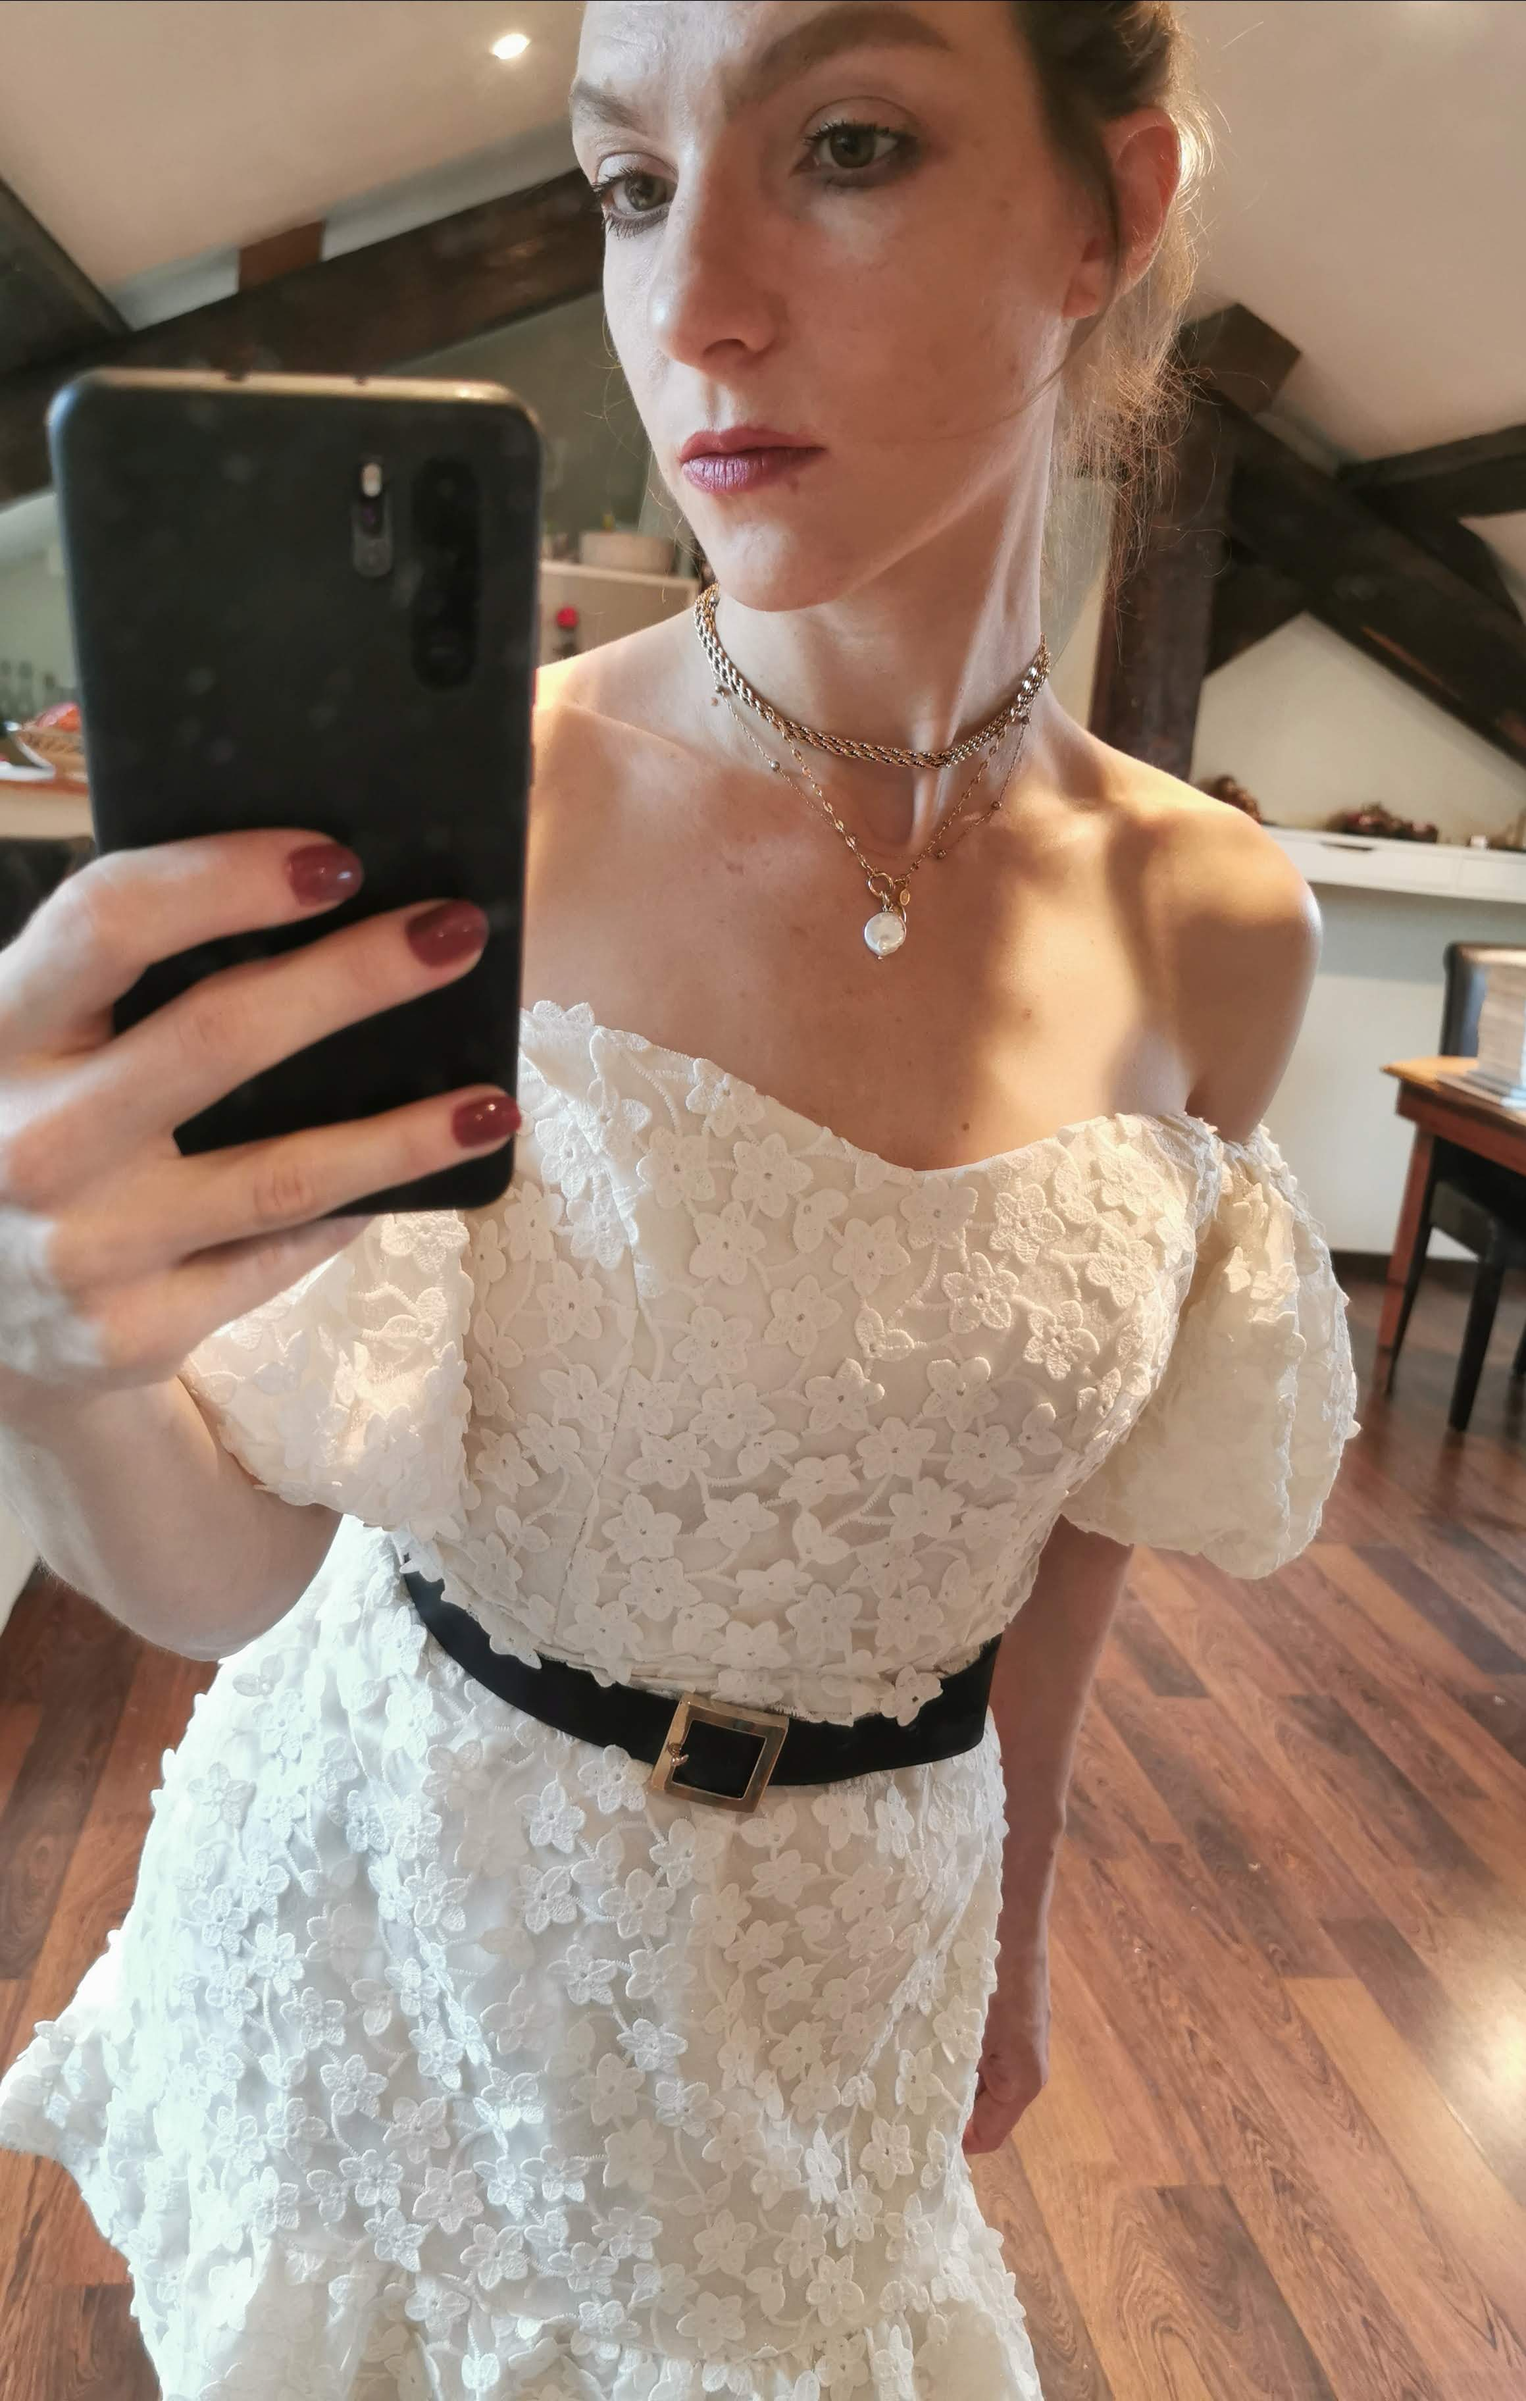
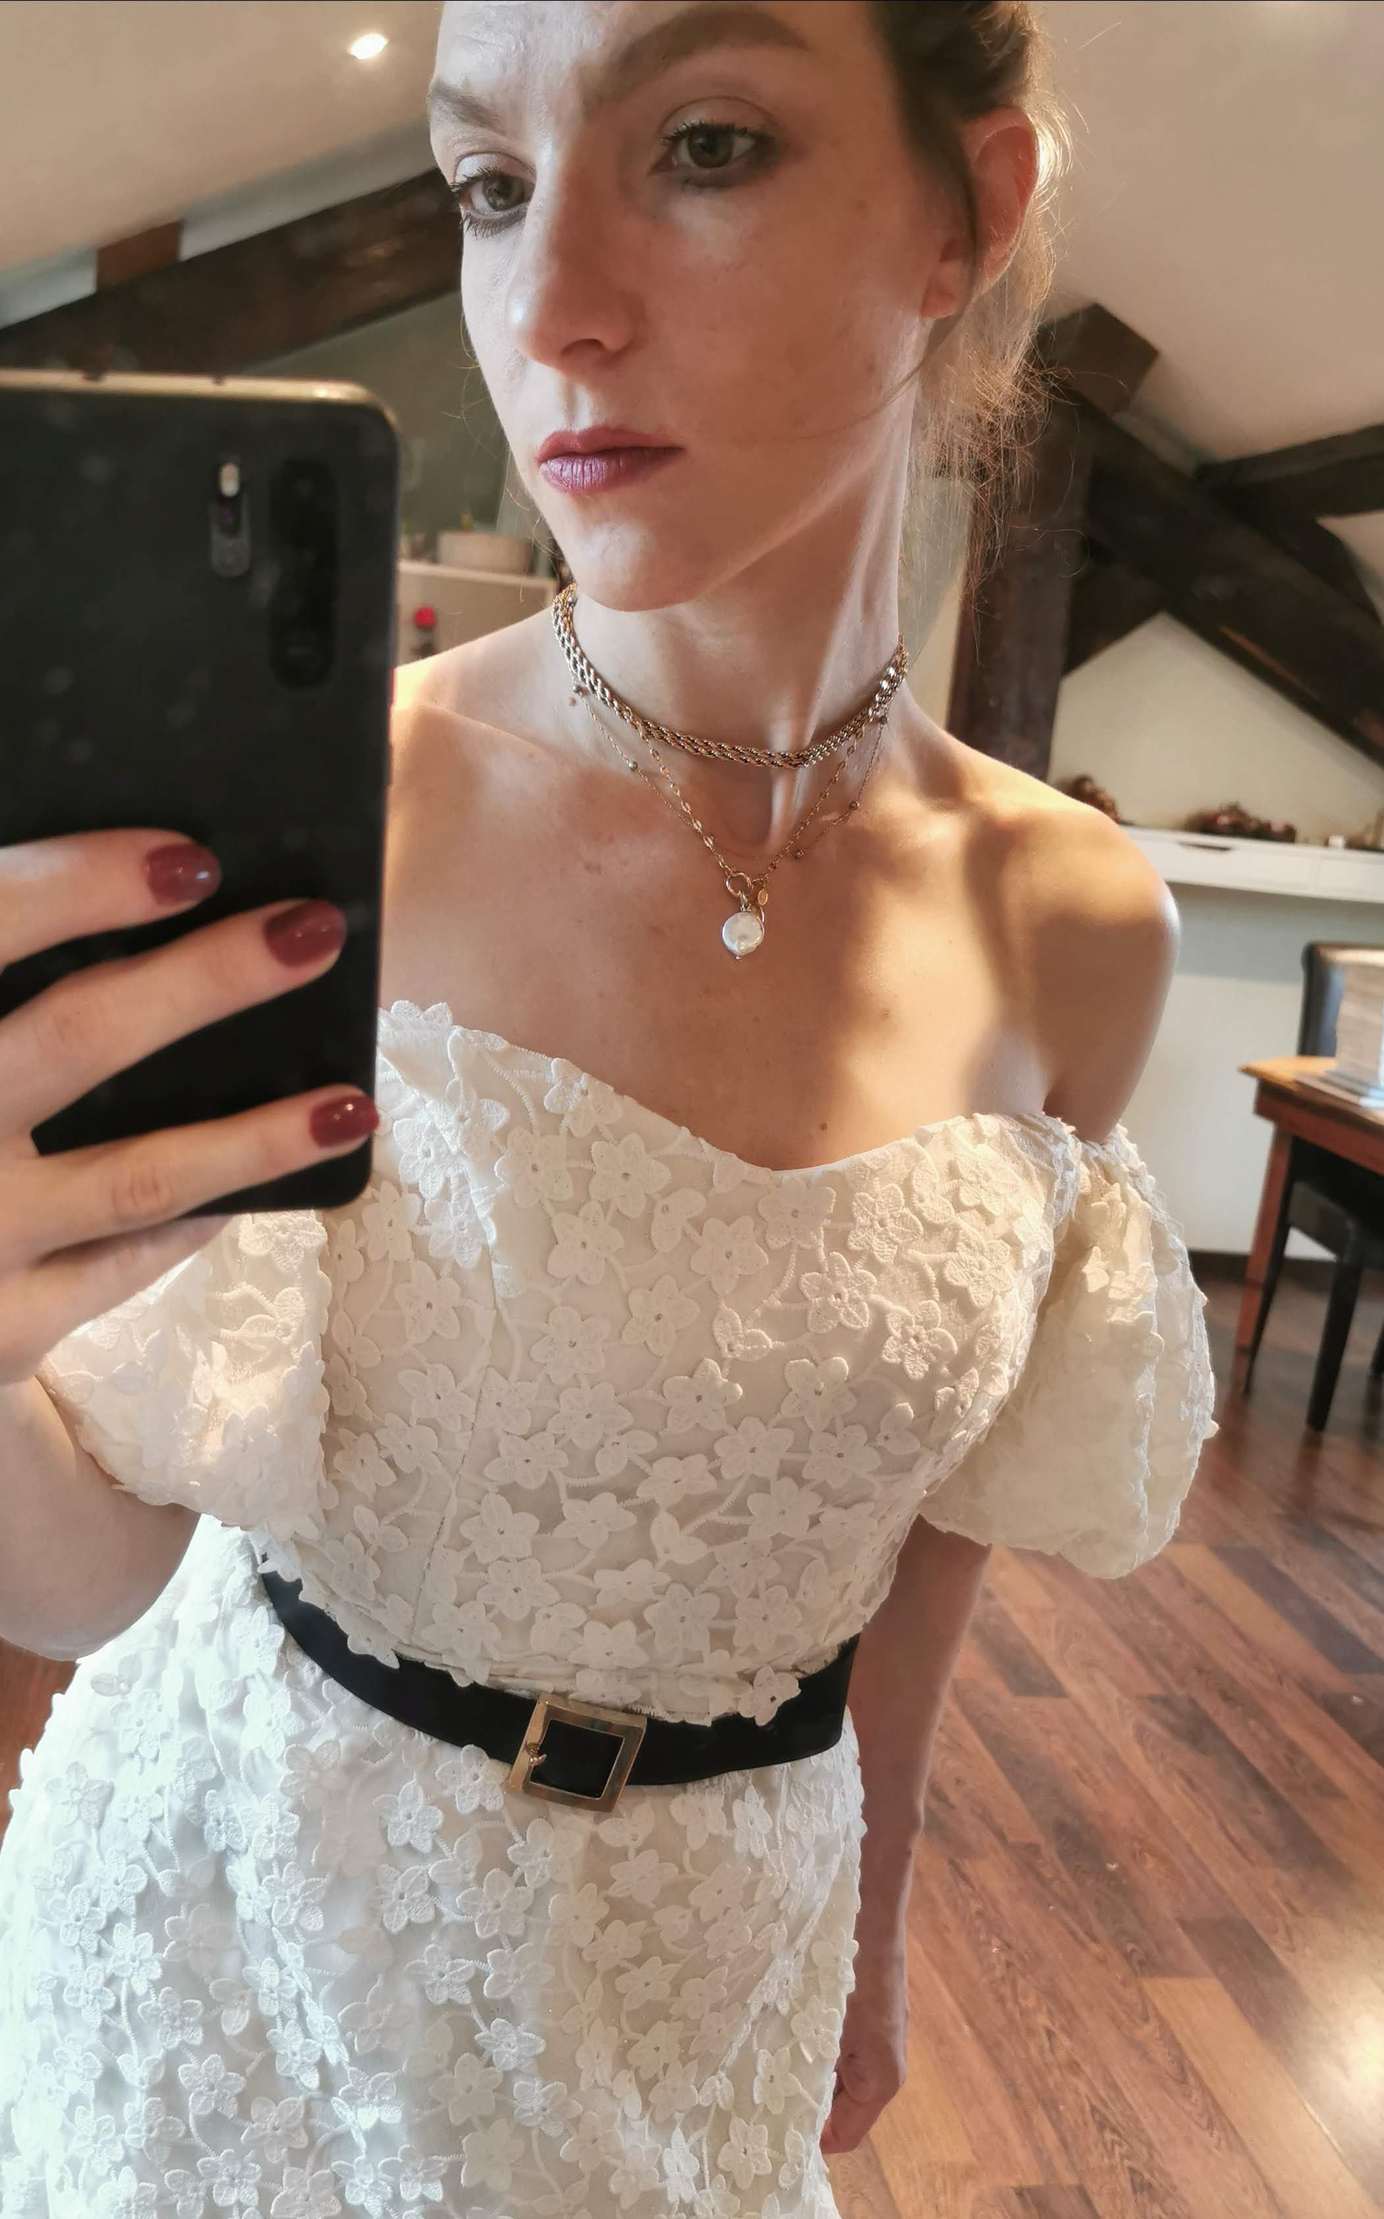
added text article romantisme

diff --git a/data/style/romantisme.js b/data/style/romantisme.js
@@ -2,7 +2,7 @@ import Picture from "../../components/picture";
 import ImgRow from "../../components/imgRow";
 
 import romantismePreview from "../../public/images/style/romantisme.jpg?lqip";
-import romantisme from "../../public/images/style/romantisme.jpg";
+import romantisme from "../../public/images/style/romantisme1.jpg";
 import romantisme2 from "../../public/images/style/romantisme2.jpg";
 import romantisme3 from "../../public/images/style/romantisme3.jpg";
 import romantisme4 from "../../public/images/style/romantisme4.jpg";
@@ -12,18 +12,42 @@ import necklace from "../../public/images/style/necklace.jpg";
 
 export default {
   category: "STYLE",
-  title: "ROMANTISME GRUNGE",
+  title: "NEO ROMANTISME GRUNGE",
   date: "22.05.2020",
   picture: { preview: romantismePreview, picture: romantisme },
   content: (
     <>
-      <div>
-        <p></p>
-        <p></p>
+      <div className="imgText">
+        <p>
+          Cette dentelle large associée aux manches bouffantes et au volant, on
+          pourrait croire en le lisant que c'est trop. Et pourtant ...Entre le
+          côté Chanel pour le ton neutre, la dentelle pailletée et le volume et
+          R13 pour le côté grunge en adoucit, l'équilibre est trouvé en
+          accessoirisant discrètement la tenue. Les épaules dénudées permettent
+          d'habiller son cou de quelques colliers fins; Collier qui pourra être
+          porté avec un pendentif en nacre et même une chaine torsadée entourée
+          en ras du cou. Les ongles habillés de framboise mettront délicatement
+          la tenue en avant. Quant aux jambes, elles sont d'autant plus misent
+          en valeur grâce au volume amené par le volant.{" "}
+        </p>
+        <p>
+          La robe étant courte, elle peut aussi bien être marié avec des
+          chaussures plates qu'avec des talons. Dans le cas de cet article, et
+          dans un esprit premier degré, je l'ai assorti avec les Dr.Martens
+          brodées. Ce décalage est d'autant plus marqué quand en plus des Dr.,
+          une veste en jean gris acid large est portée par dessus la robe. Le
+          volant ressort, ce qui équilibre le volume de la tenue. Ce côté
+          princesse de la robe mixé avec des accessoires. (Robe{" "}
+          <a href="https://www.stories.com/en_eur/clothing/dresses/mini-dresses/product.balloon-sleeve-lace-mini-dress-white.0859832001.html">
+            OtherStories
+          </a>
+          )
+        </p>
+
+        <ImgRow>
+          <Picture picture={{ picture: necklace }} />
+        </ImgRow>
       </div>
-      <ImgRow>
-        <Picture picture={{ picture: necklace }} />
-      </ImgRow>
     </>
   ),
 };

diff --git a/pages/style-romantisme_grunge.js b/pages/style-romantisme_grunge.js
@@ -18,7 +18,7 @@ const RomantismePage = () => (
       category={article.category}
       title={article.title}
       date={article.date}
-      picture="/images/style/romantisme.jpg"
+      picture="/images/style/romantisme3.jpg"
     >
       {article.content}
     </ArticleBase>
@@ -55,7 +55,7 @@ const RomantismePage = () => (
     </Aside>
     <style jsx global>{`
       article-base img {
-        max-height: 100%;
+        max-width: 100%;
       }
     `}</style>
   </Layout>

diff --git a/pages/style-l_acceptation_par_la_douceur.js b/pages/style-l_acceptation_par_la_douceur.js
@@ -52,7 +52,11 @@ const AcceptationPage = () => (
         text=" Vous pouvez me suivre > "
       />
     </Aside>
-    <style jsx global>{``}</style>
+    <style jsx global>{`
+      .article-base img {
+        max-height: 30rem;
+      }
+    `}</style>
   </Layout>
 );
 

diff --git a/pages/shoes-celles_tant_desirees.js b/pages/shoes-celles_tant_desirees.js
@@ -56,7 +56,7 @@ const DesirPage = () => (
       .article-base img {
         grid-column: 1/5;
         width: 100%;
-        height: 20rem;
+        height: 40rem;
         object-fit: cover;
       }
       .article-base .text {
